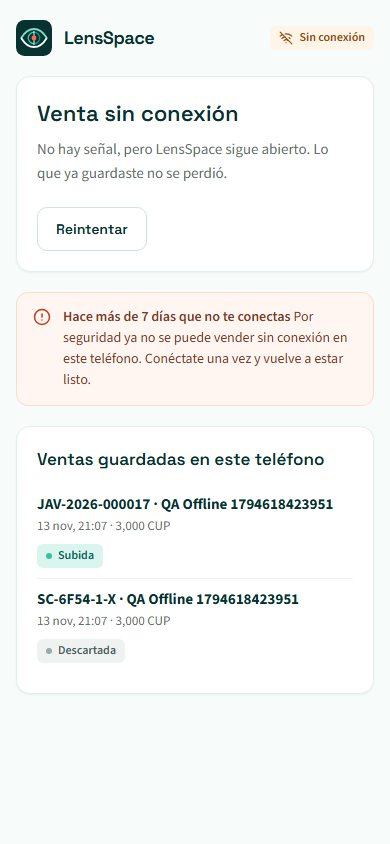
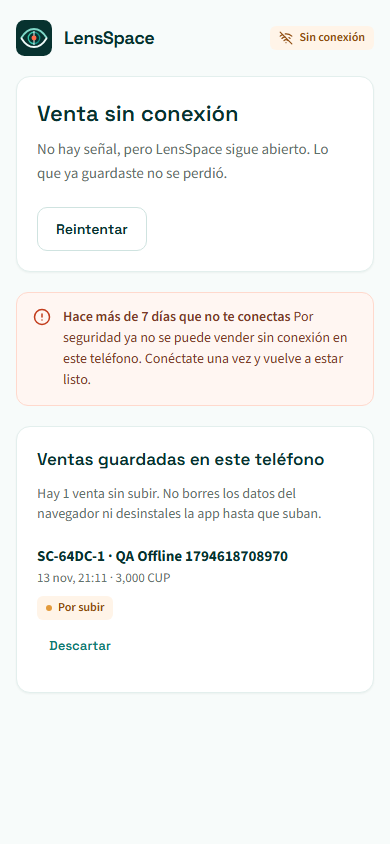
feat(offline): own orders offline, desk entry and cashbox warning (LEN0011 phase 6)
The device keeps the seller's recent orders to answer customers with no
network, the offline banner links to the offline desk, and closing a
cashbox warns once while offline sales wait on this device.

Changed region(s): [[0.0923, 0.5545, 0.8615, 0.8009]]

diff --git a/src/features/offline/snapshot/capture-snapshot.ts b/src/features/offline/snapshot/capture-snapshot.ts
@@ -1,13 +1,16 @@
 import { loadSaleContext } from '@/features/sales/load-sale-context'
 import type { createClient } from '@/lib/supabase/client'
+import { daysAgoIn } from '@/shared/utils/dates'
 
-import type { OfflineCustomer, OfflineSnapshot } from '../types'
+import type { OfflineCustomer, OfflineOrder, OfflineSnapshot } from '../types'
 
 type Client = ReturnType<typeof createClient>
 type Page<T> = (from: number, to: number) => PromiseLike<{ data: T[] | null; error: unknown }>
 
 const PAGE = 1000 // PostgREST max_rows (supabase/config.toml)
 const MAX_ROWS = 10_000 // a ceiling for one branch; the pilot has dozens
+const ORDER_DAYS = 30 // finished orders kept; open ones always
+const MAX_ORDERS = 300
 
 async function readAll<T>(page: Page<T>): Promise<T[]> {
   const rows: T[] = []
@@ -32,12 +35,15 @@ export async function captureSnapshot(supabase: Client, userId: string): Promise
   const context = await loadSaleContext(supabase, userId)
   const { branchIds, organizationIds } = context
   const none = Promise.resolve([] as never[])
-  const [customerRows, phoneRows, revisionRows, optometristRows] = await Promise.all([
+  const finishedSince = daysAgoIn(ORDER_DAYS)
+  const [customerRows, phoneRows, revisionRows, optometristRows, orderResult] = await Promise.all([
     branchIds.length ? readAll<CustomerRow>((from, to) => supabase.from('customers').select('id, organization_id, branch_id, full_name').in('branch_id', branchIds).is('archived_at', null).is('commercial_account_id', null).order('id').range(from, to)) : none,
     branchIds.length ? readAll<PhoneRow>((from, to) => supabase.from('customer_phones').select('customer_id, normalized_phone').in('branch_id', branchIds).order('id').range(from, to)) : none,
     branchIds.length ? readAll<RevisionRow>((from, to) => supabase.from('prescription_revisions').select('id, prescription_id, prescription_date, prescriptions!inner(customer_id)').in('branch_id', branchIds).order('created_at', { ascending: false }).range(from, to) as unknown as PromiseLike<{ data: RevisionRow[] | null; error: unknown }>) : none,
     organizationIds.length ? readAll<OptometristRow>((from, to) => supabase.from('optometrists').select('organization_id, full_name').in('organization_id', organizationIds).order('full_name').range(from, to)) : none,
+    supabase.rpc('list_accessible_orders', { finished_since: finishedSince } as never),
   ])
+  if (orderResult.error) throw orderResult.error
   const phones = new Map<number, string[]>()
   for (const row of phoneRows) if (row.normalized_phone) phones.set(row.customer_id, [...(phones.get(row.customer_id) ?? []), row.normalized_phone])
   const revisions = new Map<number, OfflineCustomer['revisions']>()
@@ -56,5 +62,10 @@ export async function captureSnapshot(supabase: Client, userId: string): Promise
     businessRates: context.businessRates,
     customers: customerRows.map((row) => ({ id: row.id, organizationId: row.organization_id, branchId: row.branch_id, name: row.full_name, phones: phones.get(row.id) ?? [], revisions: revisions.get(row.id) ?? [] })),
     optometrists: optometristRows.map((row) => ({ organizationId: row.organization_id, name: row.full_name })),
+    orders: ((orderResult.data ?? []) as unknown as OfflineOrder[]).slice(0, MAX_ORDERS).map((order) => ({
+      id: order.id, orderNumber: order.orderNumber, customerName: order.customerName, customerPhone: order.customerPhone, pairCount: order.pairCount,
+      commercialStatus: order.commercialStatus, paymentStatus: order.paymentStatus, totalCup: order.totalCup, balanceCup: order.balanceCup,
+      saleRate: order.saleRate, createdAt: order.createdAt, hasOpenIncident: order.hasOpenIncident,
+    })),
   }
 }

diff --git a/src/features/cashbox/components/CashboxWorkspace.tsx b/src/features/cashbox/components/CashboxWorkspace.tsx
@@ -1,7 +1,8 @@
 'use client'
 
 import { ArrowLeft, Lock, Wallet } from 'lucide-react'
-import { FormEvent, useMemo, useState, useTransition } from 'react'
+import { FormEvent, useEffect, useMemo, useState, useTransition } from 'react'
+import { countWaitingOfflineSales } from '@/features/offline'
 import { createClient } from '@/lib/supabase/client'
 import { FilterPanel, FormSelect } from '@/shared/components'
 import { Alert, Badge, Button, Card, CardHeader, EmptyState, Field, Input, ListItem, PageHeader, StatCard, Toast, cx } from '@/shared/ui'
@@ -25,6 +26,13 @@ export function CashboxWorkspace({ initialCashboxes, currentUserId }: { initialC
   const [branchFilter, setBranchFilter] = useState('')
   const [sellerFilter, setSellerFilter] = useState('')
   const [pending, startTransition] = useTransition()
+  // LEN0011: sales made offline on this phone and not uploaded yet would add payments to
+  // a day after its closure; warn once before closing (they still land as post-close).
+  const [waitingOffline, setWaitingOffline] = useState(0)
+  const [offlineAcknowledged, setOfflineAcknowledged] = useState(false)
+  useEffect(() => {
+    if ('indexedDB' in window) countWaitingOfflineSales(currentUserId).then(setWaitingOffline, () => undefined)
+  }, [currentUserId])
   const selected = cashboxes.find((cashbox) => cashbox.id === selectedId) ?? null
   const isOwnCashbox = selected?.sellerId === currentUserId
   const visibleCashboxes = cashboxes.filter((cashbox) => (!dateFilter || cashbox.businessDate === dateFilter) && (!branchFilter || cashbox.branchName === branchFilter) && (!sellerFilter || cashbox.sellerId === sellerFilter))
@@ -41,6 +49,10 @@ export function CashboxWorkspace({ initialCashboxes, currentUserId }: { initialC
     if (!selected) return
     const form = new FormData(event.currentTarget)
     const closureType = selected.primaryClosed ? 'complementary' : 'primary'
+    if (waitingOffline && !offlineAcknowledged) {
+      setOfflineAcknowledged(true)
+      return setMessage(`${waitingOffline === 1 ? 'Hay 1 venta hecha sin conexión' : `Hay ${waitingOffline} ventas hechas sin conexión`} en este teléfono que aún no subió. Si cierras ahora, sus cobros entrarán después como posteriores al cierre. Espera a que suban o pulsa cerrar otra vez para continuar.`)
+    }
     setMessage('')
     startTransition(async () => {
       const { error } = await supabase.rpc('close_cashbox', { target_cashbox_id: selected.id, closure_type: closureType, declared_amount: Number(form.get('declaredAmount')) } as never)
@@ -127,7 +139,7 @@ export function CashboxWorkspace({ initialCashboxes, currentUserId }: { initialC
             </div>
             {selected.primaryClosed ? <p className="text-[13px] text-text-muted">Pendiente posterior al cierre: {money(selected.pendingPostCloseAmount, selected.currency)}</p> : null}
           </form> : <Alert tone="info">Vista de revisión. Solo quien recibió el efectivo puede cerrar esta caja.</Alert>}
-          {message ? <Alert tone="danger" role="alert">{message}</Alert> : null}
+          {message ? <Alert tone={offlineAcknowledged && message.includes('sin conexión') ? 'warning' : 'danger'} role="alert">{message}</Alert> : null}
           <Alert tone="info" title="Cómo funciona tu caja.">Cada moneda se cierra por separado. Los cobros posteriores permanecen disponibles para un cierre complementario sin alterar el principal.</Alert>
         </Card>
       </div> : null}

diff --git a/src/features/offline/components/OfflineOrdersList.tsx b/src/features/offline/components/OfflineOrdersList.tsx
@@ -1,0 +1,58 @@
+'use client'
+
+import { Search } from 'lucide-react'
+import { useState } from 'react'
+
+import { formatAmount } from '@/features/orders/format'
+import { orderStatus } from '@/features/orders/order-status'
+import { cupToUsd, toUsd } from '@/features/orders/sale-currency'
+import { Badge, Card, Input } from '@/shared/ui'
+
+import { snapshotAge } from '../snapshot/expiry'
+import type { OfflineOrder } from '../types'
+
+const fold = (value: string) => value.normalize('NFD').replace(/[̀-ͯ]/g, '').toLowerCase()
+const dateFormat = new Intl.DateTimeFormat('es', { day: 'numeric', month: 'short' })
+const finished = (order: OfflineOrder) => order.commercialStatus === 'delivered' || order.commercialStatus === 'closed'
+
+// Phase 6: answer «¿cuánto debo?» or «¿ya están mis espejuelos?» with no network. Read
+// only, as of the last time the data was saved; amounts in USD like /orders.
+export function OfflineOrdersList({ orders, confirmedAt }: { orders: OfflineOrder[]; confirmedAt: string }) {
+  const [term, setTerm] = useState('')
+  if (!orders.length) return null
+  const query = fold(term.trim())
+  const digits = term.replace(/\D/g, '')
+  const visible = orders.filter((order) => !query
+    || fold(order.orderNumber).includes(query) || fold(order.customerName).includes(query)
+    || (digits.length >= 4 && (order.customerPhone ?? '').replace(/\D/g, '').includes(digits))).slice(0, 30)
+  return (
+    <Card className="flex flex-col gap-3">
+      <div>
+        <h2 className="font-display text-[17px] font-semibold text-ink">Pedidos</h2>
+        <p className="mt-1 text-sm text-text-muted">Como estaban con los datos guardados {snapshotAge(confirmedAt)}. Lo que pasó después se verá cuando vuelva la señal.</p>
+      </div>
+      <Input leadingIcon={Search} value={term} onChange={(event) => setTerm(event.target.value)} placeholder="Buscar por pedido, cliente o teléfono" aria-label="Buscar pedido" autoComplete="off" />
+      <ul className="flex flex-col divide-y divide-line-soft">
+        {visible.map((order) => {
+          const status = orderStatus(order)
+          const owes = !finished(order) && order.balanceCup > 0
+          const rate = Number(order.saleRate)
+          return (
+            <li key={order.id} className="flex items-center justify-between gap-3 py-2.5">
+              <span className="min-w-0">
+                <strong className="block truncate text-[15px] text-ink">{order.customerName}</strong>
+                <span className="block text-[13px] text-text-muted">{order.orderNumber} · {dateFormat.format(new Date(order.createdAt))}{order.pairCount > 1 ? ` · ${order.pairCount} pares` : ''}</span>
+                <Badge tone={status.tone} className="mt-1">{status.label}</Badge>
+              </span>
+              <span className="shrink-0 text-right">
+                <span className={`block font-display text-[15px] font-bold tabular-nums ${owes ? 'text-coral-ink' : 'text-ink'}`}>{formatAmount(owes ? cupToUsd(order.balanceCup, rate) : toUsd(order.totalCup, rate))} USD</span>
+                <span className="block text-[12px] text-text-muted">{owes ? 'Debe' : 'Total'}</span>
+              </span>
+            </li>
+          )
+        })}
+      </ul>
+      {!visible.length ? <p className="text-sm text-text-muted">Ningún pedido coincide con la búsqueda.</p> : null}
+    </Card>
+  )
+}

diff --git a/src/shared/components/OfflineBanner.tsx b/src/shared/components/OfflineBanner.tsx
@@ -4,14 +4,18 @@ import { WifiOff } from 'lucide-react'
 import { useOffline } from 'next/offline'
 
 // `useOffline` also turns true when a navigation or prefetch fails, which is more
-// reliable than navigator.onLine on Wi-Fi without upstream internet.
-export function OfflineBanner() {
+// reliable than navigator.onLine on Wi-Fi without upstream internet. Sellers get the
+// offline desk (LEN0011); a plain link, so the service worker serves it with no network.
+export function OfflineBanner({ canSellOffline = false }: { canSellOffline?: boolean }) {
   const isOffline = useOffline()
   if (!isOffline) return null
   return (
-    <div role="status" className="sticky top-0 z-20 flex items-center justify-center gap-2 bg-coral-tint px-4 py-2 text-center text-[13px] font-semibold text-coral-deep">
-      <WifiOff aria-hidden="true" size={16} className="shrink-0" />
-      Sin conexión: lo que ves sigue aquí y reintentaremos al volver la señal.
+    <div role="status" className="sticky top-0 z-20 flex flex-wrap items-center justify-center gap-x-3 gap-y-1 bg-coral-tint px-4 py-2 text-center text-[13px] font-semibold text-coral-deep">
+      <span className="flex items-center gap-2">
+        <WifiOff aria-hidden="true" size={16} className="shrink-0" />
+        Sin conexión: lo que ves sigue aquí y reintentaremos al volver la señal.
+      </span>
+      {canSellOffline ? <a href="/sin-conexion" className="underline underline-offset-2">Vender sin conexión</a> : null}
     </div>
   )
 }

diff --git a/src/features/offline/types.ts b/src/features/offline/types.ts
@@ -11,6 +11,22 @@ export type OfflineCustomer = {
   revisions: { id: number; label: string }[]
 }
 
+// Own orders (RLS scope of list_accessible_orders) to answer a customer with no network.
+export type OfflineOrder = {
+  id: number
+  orderNumber: string
+  customerName: string
+  customerPhone: string | null
+  pairCount: number
+  commercialStatus: string
+  paymentStatus: string
+  totalCup: number
+  balanceCup: number
+  saleRate: number | null
+  createdAt: string
+  hasOpenIncident: boolean
+}
+
 // Everything the offline desk reads, saved for one signed-in seller (LEN0011, D10).
 export type OfflineSnapshot = {
   version: 1
@@ -23,6 +39,8 @@ export type OfflineSnapshot = {
   businessRates: Record<number, SaleBusinessRate>
   customers: OfflineCustomer[]
   optometrists: { organizationId: number; name: string }[]
+  // Missing in snapshots saved before phase 6.
+  orders?: OfflineOrder[]
 }
 
 export type OfflineSaleStatus = 'pending' | 'uploading' | 'uploaded' | 'retained' | 'discarded'

diff --git a/src/features/offline/components/OfflineDesk.tsx b/src/features/offline/components/OfflineDesk.tsx
@@ -14,6 +14,7 @@ import type { OfflineSalePayload } from '../sale/payload'
 import { saveOfflineSale } from '../sale/save-sale'
 import { indexedDbStore } from '../store/indexeddb-store'
 import type { OfflineSale, OfflineSnapshot } from '../types'
+import { OfflineOrdersList } from './OfflineOrdersList'
 import { OfflineSaleForm } from './OfflineSaleForm'
 import { OfflineSalesList } from './OfflineSalesList'
 
@@ -93,6 +94,7 @@ export function OfflineDesk() {
         {state.kind === 'ready' || state.kind === 'expired'
           ? <OfflineSalesList sales={sales} needsLogin={needsLogin} onRetry={retry} onDiscard={discard} customerName={(id) => state.snapshot.customers.find((entry) => entry.id === id)?.name ?? null} />
           : null}
+        {state.kind === 'ready' && state.snapshot.orders ? <OfflineOrdersList orders={state.snapshot.orders} confirmedAt={state.snapshot.confirmedAt} /> : null}
       </PageContainer>
     </main>
   )

diff --git a/src/app/(main)/layout.tsx b/src/app/(main)/layout.tsx
@@ -69,7 +69,7 @@ async function AuthenticatedLayout({ children }: { children: React.ReactNode }) 
             <MobileSidebar allowedHrefs={allowedHrefs} counts={counts} identity={identity} canCreateSale={canCreateSale} />
           </div>
         </header>
-        <OfflineBanner />
+        <OfflineBanner canSellOffline={allowedHrefs.includes('/sales')} />
         <SubscriptionBanner notices={notices} />
         <RefreshOnFocus />
         {/* LEN0011: keep the offline desk data for whoever can sell. */}

diff --git a/.titan/plans/prp-offline-sales.md b/.titan/plans/prp-offline-sales.md
@@ -1,6 +1,6 @@
 # PRP — Offline sales (LEN0011), then the Android APK
 
-> **Status**: APPROVED by Roberto (2026-11-13). Phases 1-2 done (web not deployed); Phase 3 migration applied to production 2026-11-13; Phases 4-5 done (web not deployed); phone-match fix applied 2026-11-13; next: Phase 6.
+> **Status**: APPROVED by Roberto (2026-11-13). Phases 1-2 done (web not deployed); Phase 3 migration applied to production 2026-11-13; Phases 1-6 done (web not deployed); phone-match fix applied 2026-11-13; next: Phase 7.
 > **Date**: 2026-11-13
 > **Project**: LensSpace
 > **Tasknic**: LEN0011 «trabajo Offline» (this plan). The Android APK follows as LEN0012 and its own plan
@@ -179,7 +179,7 @@ organizations, seller without permission refused, payment lands in the right day
 **Objective**: automatic serial upload on reconnection, retained with reason, logout guard, flags visible in the order.
 **Validation**: Playwright with intermittent network, lost response after save (one order only), expired session retained.
 
-### Phase 6: Consult own orders offline and entry points
+### Phase 6: Consult own orders offline and entry points — DONE (2026-11-13, not deployed)
 **Objective**: own recent orders readable offline; banner/entry to the offline desk when the app loses connection.
 **Validation**: offline list matches the last snapshot; banner appears and disappears with connectivity.
 
@@ -317,4 +317,13 @@ organizations, seller without permission refused, payment lands in the right day
 - **QA data left in production (demo org «Óptica Javier Prueba»):** order `JAV-2026-000017`, customer
   `QA Offline 1794618423951` (no consent), no payment. Retail orders cannot be cancelled or deleted (business rule,
   immutable payments), so QA uploads must go without payment and to the demo organization only.
-- **Not done:** blocking cashbox closing while sales wait on a device (late payments already land as post-close).
+- **Cashbox (done after phase 5):** `CashboxWorkspace` warns once before closing when this device has offline sales
+  waiting for the user; a second press closes (late payments still land as post-close, so it is not a hard block).
+
+### 2026-11-13: Phase 6 (own orders offline, entry point)
+- **Pieces:** the snapshot also keeps `list_accessible_orders(finished_since = 30 days)` (RLS scope: a seller's own
+  orders, the owner's branch orders), max 300, display fields only; `OfflineOrdersList` (search by number, customer or
+  phone; amounts in USD like `/orders`); `OfflineBanner` in the `(main)` layout links «Vender sin conexión» for users
+  with `/sales` (plain `<a>`, served by the worker offline).
+- **Measured:** `qa-offline.mjs` 19/19 without upload: banner link opens the desk with no network, 14 orders saved and
+  searchable; snapshot 8.1 KB with the demo data.
